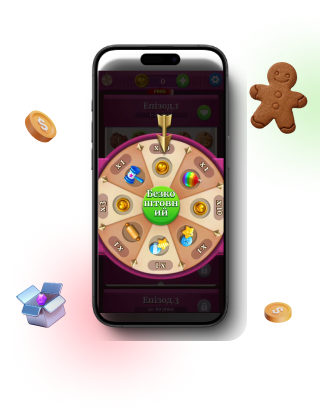
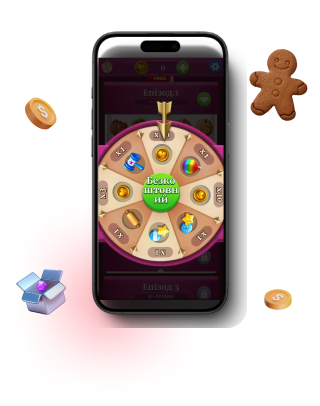
edit about section

diff --git a/src/scss/about.scss b/src/scss/about.scss
@@ -1,40 +1,72 @@
+// .about-section {
+//   background-image: url('/img/about/mobile/game.png');
+//   background-repeat: no-repeat;
+//   min-height: 825px;
+//   background-size: 321px;
+//   background-position-x: center;
+//   background-position-y: bottom;
+//   background-origin: content-box;
+
+//   @include media(desktop) {
+//     background-size: 733px;
+//     background-image: url('/img/about/desktop/game.png');
+//     min-height: 606px;
+//     background-position-x: 72px;
+//     background-position-y: center;
+//   }
+
+//   @media (-webkit-min-device-pixel-ratio: 2), (min-resolution: 192dpi) {
+//     @include media(mobile) {
+//       background-image: url('/img/about/mobile/game@2x.png');
+//     }
+//     @include media(desktop) {
+//       background-image: url('/img/about/desktop/game@2x.png');
+//     }
+//   }
+// }
+
 .about-section {
-  background-image: url('/img/about/mobile/game.png');
-  background-repeat: no-repeat;
-  min-height: 825px;
-  background-size: 321px;
-  background-position-x: center;
-  background-position-y: bottom;
-  background-origin: content-box;
+  overflow-x: hidden;
 
   @include media(desktop) {
-    background-size: 733px;
-    background-image: url('/img/about/desktop/game.png');
-    min-height: 606px;
-    background-position-x: 72px;
-    background-position-y: center;
-  }
-
-  @media (-webkit-min-device-pixel-ratio: 2), (min-resolution: 192dpi) {
-    @include media(mobile) {
-      background-image: url('/img/about/mobile/game@2x.png');
-    }
-    @include media(desktop) {
-      background-image: url('/img/about/desktop/game@2x.png');
-    }
+    overflow-x: visible;
   }
 }
 
-@include media(desktop) {
-  .about__container {
+.about__container {
+  position: relative;
+
+  @include media(desktop) {
     display: flex;
     flex-direction: row-reverse;
+    gap: 12px;
+    align-items: center;
   }
 }
 
-@include media(desktop) {
-  .about__heading {
+.about__container::before {
+  content: '';
+  position: absolute;
+  background-image: url('/img/about/blue-shadow.png');
+  background-repeat: no-repeat;
+  background-position: center;
+  right: -38%;
+  top: -10%;
+  width: 210px;
+  height: 212px;
+  z-index: -1;
+
+  @include media(desktop) {
+    left: -8%;
+    top: -36%;
+  }
+}
+
+.about__heading {
+  margin-bottom: 24px;
+  @include media(desktop) {
     width: 550px;
+    margin-bottom: 0px;
   }
 }
 
@@ -43,5 +75,27 @@
 
   @include media(desktop) {
     @include font(24, 32);
+  }
+}
+
+.about__img-container {
+  position: relative;
+}
+
+.about__img-container::before {
+  content: '';
+  position: absolute;
+  background-image: url('/img/about/green-shadow.png');
+  background-repeat: no-repeat;
+  background-position: center;
+  right: -38%;
+  top: -4%;
+  width: 205px;
+  height: 208px;
+  z-index: -1;
+
+  @include media(desktop) {
+    right: -14%;
+    top: 24%;
   }
 }

diff --git a/src/partials/about.html b/src/partials/about.html
@@ -10,5 +10,20 @@
         against a vibrant and colorful backdrop.
       </p>
     </div>
+
+    <div class="about__img-container">
+      <img
+        srcset="
+          ./img/about/desktop/game.png     733w,
+          ./img/about/desktop/game@2x.png 1466w,
+          ./img/about/mobile/game.png      320w,
+          ./img/about/mobile/game@2x.png   640w
+        "
+        sizes="(min-width: 1440px) 733px, (min-width: 320px) 320px"
+        src="./img/about/mobile/game.png"
+        alt="Game illustration"
+        loading="lazy"
+      />
+    </div>
   </div>
 </section>

diff --git a/src/scss/section.scss b/src/scss/section.scss
@@ -1,7 +1,6 @@
 section {
   padding-top: 40px;
   padding-bottom: 40px;
-
   @include media(desktop) {
     padding-top: 80px;
     padding-bottom: 80px;
